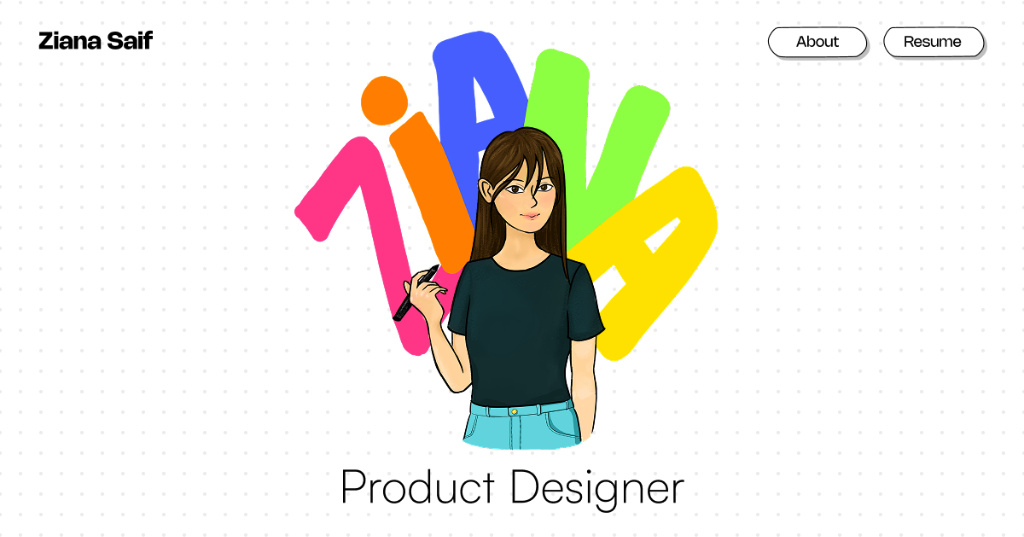
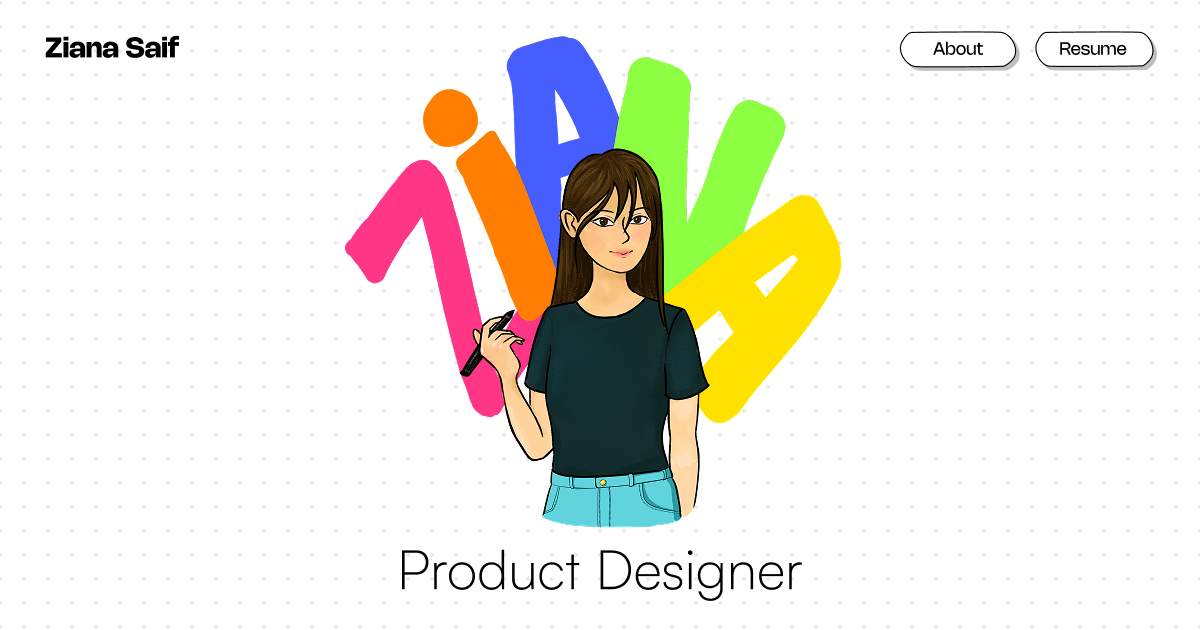
fix: update og-image to 1200x630 and correct metadata dimensions

diff --git a/app/layout.tsx b/app/layout.tsx
@@ -18,8 +18,8 @@ export const metadata: Metadata = {
     images: [
       {
         url: "/og-image.png",
-        width: 1024,
-        height: 537,
+        width: 1200,
+        height: 630,
         alt: "Ziana Saif — Product Designer",
       },
     ],
